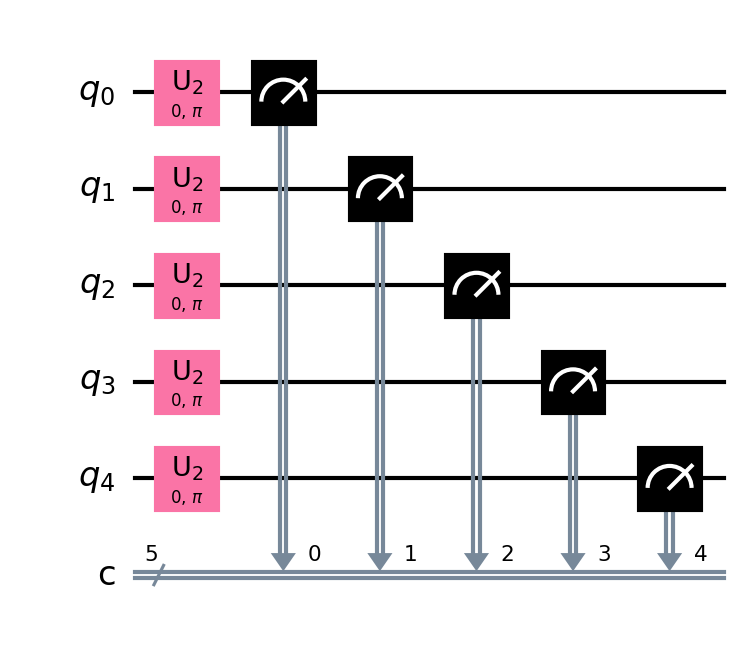
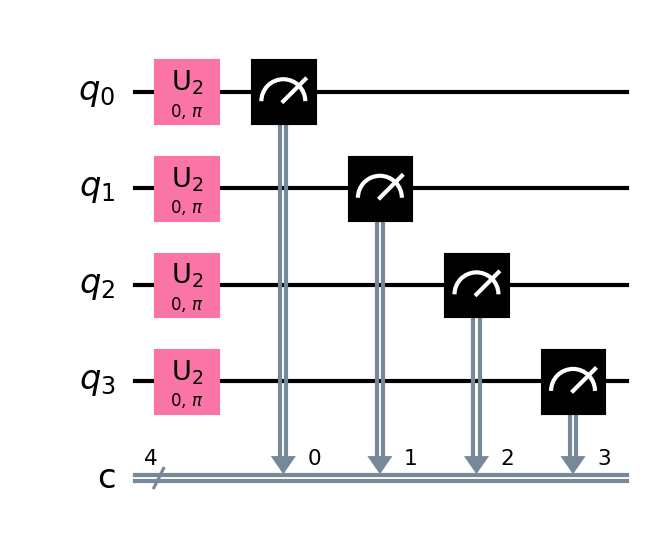
Fixing gitignore

Changed region(s): [[0.0922, 0.0926, 0.9831, 0.9256], [0.0922, 0.2777, 0.1843, 0.3702], [0.0922, 0.4319, 0.1536, 0.4628]]

diff --git a/circuit_output/qrng_circuit_tex_decomposed.tex b/circuit_output/qrng_circuit_tex_decomposed.tex
@@ -6,11 +6,10 @@
 \begin{document} 
 \scalebox{1.0}{
 \Qcircuit @C=1.0em @R=0.2em @!R { \\
-	 	\nghost{ {q}_{0} :  } & \lstick{ {q}_{0} :  } & \gate{\mathrm{U_2}\,(\mathrm{0,\pi})} & \meter & \qw & \qw & \qw & \qw & \qw & \qw\\ 
-	 	\nghost{ {q}_{1} :  } & \lstick{ {q}_{1} :  } & \gate{\mathrm{U_2}\,(\mathrm{0,\pi})} & \qw & \meter & \qw & \qw & \qw & \qw & \qw\\ 
-	 	\nghost{ {q}_{2} :  } & \lstick{ {q}_{2} :  } & \gate{\mathrm{U_2}\,(\mathrm{0,\pi})} & \qw & \qw & \meter & \qw & \qw & \qw & \qw\\ 
-	 	\nghost{ {q}_{3} :  } & \lstick{ {q}_{3} :  } & \gate{\mathrm{U_2}\,(\mathrm{0,\pi})} & \qw & \qw & \qw & \meter & \qw & \qw & \qw\\ 
-	 	\nghost{ {q}_{4} :  } & \lstick{ {q}_{4} :  } & \gate{\mathrm{U_2}\,(\mathrm{0,\pi})} & \qw & \qw & \qw & \qw & \meter & \qw & \qw\\ 
-	 	\nghost{c:} & \lstick{c:} & \lstick{/_{_{5}}} \cw & \dstick{_{_{0}}} \cw \cwx[-5] & \dstick{_{_{1}}} \cw \cwx[-4] & \dstick{_{_{2}}} \cw \cwx[-3] & \dstick{_{_{3}}} \cw \cwx[-2] & \dstick{_{_{4}}} \cw \cwx[-1] & \cw & \cw\\ 
+	 	\nghost{ {q}_{0} :  } & \lstick{ {q}_{0} :  } & \gate{\mathrm{U_2}\,(\mathrm{0,\pi})} & \meter & \qw & \qw & \qw & \qw & \qw\\ 
+	 	\nghost{ {q}_{1} :  } & \lstick{ {q}_{1} :  } & \gate{\mathrm{U_2}\,(\mathrm{0,\pi})} & \qw & \meter & \qw & \qw & \qw & \qw\\ 
+	 	\nghost{ {q}_{2} :  } & \lstick{ {q}_{2} :  } & \gate{\mathrm{U_2}\,(\mathrm{0,\pi})} & \qw & \qw & \meter & \qw & \qw & \qw\\ 
+	 	\nghost{ {q}_{3} :  } & \lstick{ {q}_{3} :  } & \gate{\mathrm{U_2}\,(\mathrm{0,\pi})} & \qw & \qw & \qw & \meter & \qw & \qw\\ 
+	 	\nghost{c:} & \lstick{c:} & \lstick{/_{_{4}}} \cw & \dstick{_{_{0}}} \cw \cwx[-4] & \dstick{_{_{1}}} \cw \cwx[-3] & \dstick{_{_{2}}} \cw \cwx[-2] & \dstick{_{_{3}}} \cw \cwx[-1] & \cw & \cw\\ 
 \\ }}
 \end{document}

diff --git a/circuit_output/qrng_circuit_tex.tex b/circuit_output/qrng_circuit_tex.tex
@@ -6,11 +6,10 @@
 \begin{document} 
 \scalebox{1.0}{
 \Qcircuit @C=1.0em @R=0.2em @!R { \\
-	 	\nghost{ {q}_{0} :  } & \lstick{ {q}_{0} :  } & \gate{\mathrm{H}} & \meter & \qw & \qw & \qw & \qw & \qw & \qw\\ 
-	 	\nghost{ {q}_{1} :  } & \lstick{ {q}_{1} :  } & \gate{\mathrm{H}} & \qw & \meter & \qw & \qw & \qw & \qw & \qw\\ 
-	 	\nghost{ {q}_{2} :  } & \lstick{ {q}_{2} :  } & \gate{\mathrm{H}} & \qw & \qw & \meter & \qw & \qw & \qw & \qw\\ 
-	 	\nghost{ {q}_{3} :  } & \lstick{ {q}_{3} :  } & \gate{\mathrm{H}} & \qw & \qw & \qw & \meter & \qw & \qw & \qw\\ 
-	 	\nghost{ {q}_{4} :  } & \lstick{ {q}_{4} :  } & \gate{\mathrm{H}} & \qw & \qw & \qw & \qw & \meter & \qw & \qw\\ 
-	 	\nghost{c:} & \lstick{c:} & \lstick{/_{_{5}}} \cw & \dstick{_{_{0}}} \cw \cwx[-5] & \dstick{_{_{1}}} \cw \cwx[-4] & \dstick{_{_{2}}} \cw \cwx[-3] & \dstick{_{_{3}}} \cw \cwx[-2] & \dstick{_{_{4}}} \cw \cwx[-1] & \cw & \cw\\ 
+	 	\nghost{ {q}_{0} :  } & \lstick{ {q}_{0} :  } & \gate{\mathrm{H}} & \meter & \qw & \qw & \qw & \qw & \qw\\ 
+	 	\nghost{ {q}_{1} :  } & \lstick{ {q}_{1} :  } & \gate{\mathrm{H}} & \qw & \meter & \qw & \qw & \qw & \qw\\ 
+	 	\nghost{ {q}_{2} :  } & \lstick{ {q}_{2} :  } & \gate{\mathrm{H}} & \qw & \qw & \meter & \qw & \qw & \qw\\ 
+	 	\nghost{ {q}_{3} :  } & \lstick{ {q}_{3} :  } & \gate{\mathrm{H}} & \qw & \qw & \qw & \meter & \qw & \qw\\ 
+	 	\nghost{c:} & \lstick{c:} & \lstick{/_{_{4}}} \cw & \dstick{_{_{0}}} \cw \cwx[-4] & \dstick{_{_{1}}} \cw \cwx[-3] & \dstick{_{_{2}}} \cw \cwx[-2] & \dstick{_{_{3}}} \cw \cwx[-1] & \cw & \cw\\ 
 \\ }}
 \end{document}
